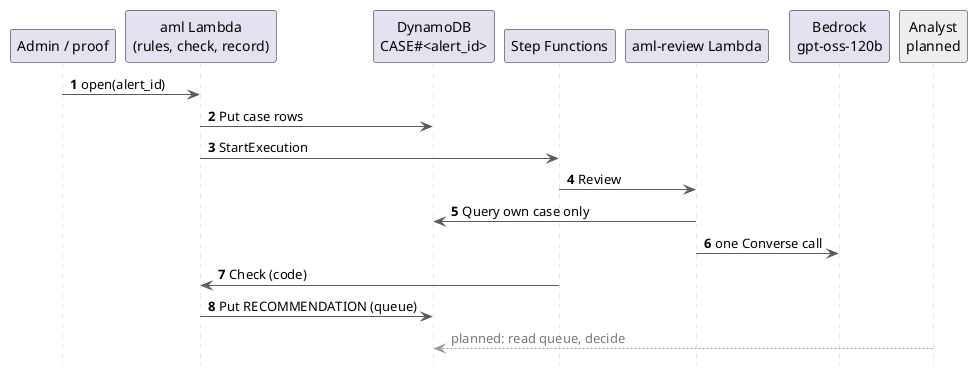
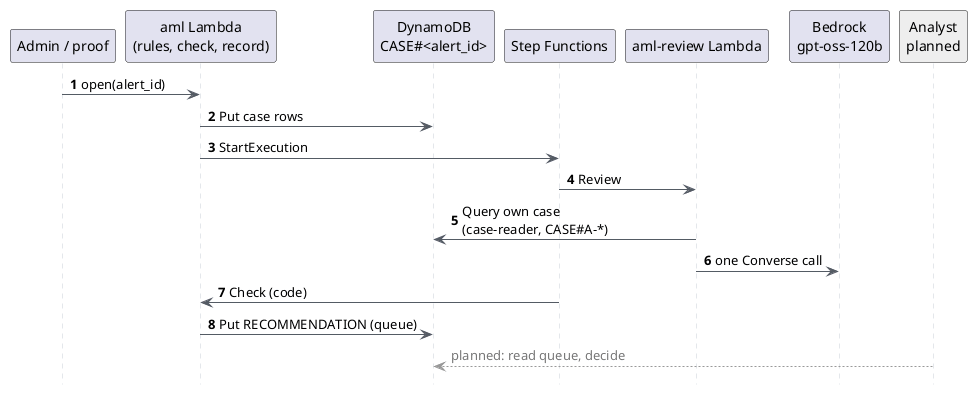
AML: give the reviewer its own case-reader role limited to CASE#A-* keys

diff --git a/proofs/aml_triage.py b/proofs/aml_triage.py
@@ -6,13 +6,18 @@
    labels never go to AWS). For each: invoke agentic-bank-aml {action: open} (rules + snapshot ->
    partition CASE#<alert_id> -> start agentic-bank-aml-triage), wait for the execution, read the
    RECOMMENDATION row. Suspicious must be escalate; both must wait for a person (never closed).
-2. Deliberate failure: the reviewer's own credential builder (`handler.case_reader`, the data-reader
+2. Deliberate failure: the reviewer's own credential builder (`handler.case_reader`, the case-reader
    role with a session policy for ONE case) reads its case, then tries the other case, a Scan and a
    write. AWS must answer AccessDenied to all three.
-3. Cleanup: every row of both CASE# partitions is deleted (admin credentials), pass or fail.
+3. The same role assumed with no session policy still reads that CASE#A-<alert_id> partition (the
+   role allows CASE#A-*, the prefix open_case writes), and a customer partition is AccessDenied.
+   The customer key is the Cognito sub (Stack.subject; the seed writes that same value), which is
+   not a CASE# partition. That deny is the role policy, not the session policy.
+4. Cleanup: every row of both CASE# partitions is deleted (admin credentials), pass or fail.
 
-Needs admin credentials allowed to invoke Lambda, read Step Functions, assume the data-reader role
-(its trust allows the account) and delete items. Two gpt-oss calls: under one cent.
+Needs admin credentials allowed to invoke Lambda, read Step Functions, assume the case-reader role
+(its trust allows the account), read the customer pool (the customer partition key) and delete
+items. Two gpt-oss calls: under one cent.
 """
 
 import json
@@ -23,7 +28,7 @@ from pathlib import Path
 from typing import Any
 
 import boto3
-from _common import REGION, check, run
+from _common import REGION, Stack, check, run
 from botocore.exceptions import ClientError
 
 ROOT = Path(__file__).resolve().parents[1]
@@ -33,7 +38,7 @@ from evals.aml import harness  # noqa: E402  labels stay on this machine
 
 TABLE = "agentic-bank-data"
 FUNCTION = "agentic-bank-aml"
-ROLE = "agentic-bank-app-data-reader"
+ROLE = "agentic-bank-app-case-reader"
 # Both were judged right by the baseline in the slice 2 eval run (evals/aml/results/baseline.md).
 
 
@@ -126,22 +131,23 @@ def main() -> None:
         table_arn = ddb.describe_table(TableName=TABLE)["Table"]["TableArn"]
         account = table_arn.split(":")[4]
         os.environ["TABLE_ARN"] = table_arn
-        os.environ["DATA_READER_ROLE_ARN"] = f"arn:aws:iam::{account}:role/{ROLE}"
+        os.environ["CASE_READER_ROLE_ARN"] = f"arn:aws:iam::{account}:role/{ROLE}"
         os.environ.setdefault("AWS_DEFAULT_REGION", REGION)
         reader = handler.case_reader(sus.alert.alert_id)
 
-        def query(alert_id: str) -> Any:
-            return lambda: reader.query(
+        def query(client: Any, key: str) -> Any:
+            return lambda: client.query(
                 TableName=TABLE,
                 KeyConditionExpression="customer = :c",
-                ExpressionAttributeValues={":c": {"S": f"CASE#{alert_id}"}},
+                ExpressionAttributeValues={":c": {"S": key}},
             )
 
-        own = query(sus.alert.alert_id)()["Items"]
+        own_key = f"CASE#{sus.alert.alert_id}"
+        own = query(reader, own_key)()["Items"]
         check(f"reviewer for {sus.alert.alert_id}: reads its own case", bool(own))
         check(
             f"reviewer for {sus.alert.alert_id}: CASE#{ben.alert.alert_id} is AccessDenied",
-            denied(query(ben.alert.alert_id)),
+            denied(query(reader, f"CASE#{ben.alert.alert_id}")),
         )
         check("reviewer: Scan is AccessDenied", denied(lambda: reader.scan(TableName=TABLE)))
         check(
@@ -154,6 +160,34 @@ def main() -> None:
                         "sk": {"S": "RECOMMENDATION"},
                         "recommendation": {"S": "close"},
                     },
+                )
+            ),
+        )
+
+        # No session policy: the role itself allows CASE#A-* and refuses every other partition.
+        # Customer rows are keyed by the Cognito sub (seeded in infra/app/data.tf), not CASE#.
+        bare_creds = boto3.client("sts").assume_role(
+            RoleArn=f"arn:aws:iam::{account}:role/{ROLE}",
+            RoleSessionName="aml-case-reader-no-policy",
+        )["Credentials"]
+        bare = boto3.client(
+            "dynamodb",
+            region_name=REGION,
+            aws_access_key_id=bare_creds["AccessKeyId"],
+            aws_secret_access_key=bare_creds["SecretAccessKey"],
+            aws_session_token=bare_creds["SessionToken"],
+        )
+        check(
+            "case-reader with no session policy: its own CASE# partition is readable",
+            bool(query(bare, own_key)()["Items"]),
+        )
+        customer = Stack().subject("alex")  # Cognito sub: the real customer partition key
+        check(
+            "case-reader with no session policy: a customer partition is AccessDenied",
+            denied(
+                lambda: bare.get_item(
+                    TableName=TABLE,
+                    Key={"customer": {"S": customer}, "sk": {"S": "ACCT#acc_alex_chk"}},
                 )
             ),
         )

diff --git a/tests/test_aml_deploy.py b/tests/test_aml_deploy.py
@@ -4,15 +4,22 @@ What only AWS can prove (IAM denies another case, the workflow runs) is in proof
 """
 
 import json
+import re
 from functools import cache
+from pathlib import Path
 from typing import Any
 
 import pytest
 
 from agentic_bank.aml import handler, snapshot, triage
 from agentic_bank.aml.case_tools import DynamoCaseSource
+from agentic_bank.shared.data import READ
 from evals.aml import harness
 from test_iam_boundaries import tf_list
+
+ROOT = Path(__file__).resolve().parents[1]
+APP = ROOT / "infra/app"
+BOOT = ROOT / "infra/bootstrap/main.tf"
 
 
 @cache
@@ -117,6 +124,109 @@ def test_check_step_uses_its_own_read_of_the_case(env):
 
     failed = handler.check_review(alert_id, {"answer": None, "failure": "baseline error: X"}, ddb)
     assert failed == {"recommendation": "escalate", "failure": "baseline error: X", "advice": None}
+
+
+def _hcl_block(text: str, marker: str) -> str:
+    """From a Terraform block header to the next top-level block."""
+    start = text.index(marker)
+    rest = text[start + len(marker) :]
+    nxt = re.search(r"\n(?:resource|data|locals|variable|output) ", rest)
+    return text[start:] if nxt is None else text[start : start + len(marker) + nxt.start()]
+
+
+def test_case_reader_identity_policy_reads_only_case_partitions():
+    """GetItem and Query on the data table, LeadingKeys like CASE#A-*, no Scan and no writes."""
+    aml = (APP / "aml.tf").read_text()
+    role = _hcl_block(aml, 'resource "aws_iam_role" "case_reader"')
+    policy = _hcl_block(aml, 'resource "aws_iam_role_policy" "case_reader"')
+    trust = _hcl_block(aml, 'data "aws_iam_policy_document" "case_reader_trust"')
+    assert re.search(r'name\s+=\s+"agentic-bank-app-case-reader"', role)
+    assert "permissions_boundary = local.boundary_arn" in role
+    assert 'aws_iam_role.lambda["aml-review"].arn' in trust
+    assert "dynamodb:GetItem" in policy and "dynamodb:Query" in policy
+    assert '["CASE#A-*"]' in policy
+    assert "dynamodb:LeadingKeys" in policy
+    assert '"dynamodb:LeadingKeys" = "false"' in policy  # a request with no key does not match
+    for forbidden in ("Scan", "PutItem", "UpdateItem", "DeleteItem", "Batch"):
+        assert forbidden not in policy
+
+
+def test_reviewer_assumes_case_reader_and_data_reader_does_not_trust_it():
+    aml = (APP / "aml.tf").read_text()
+    grants = _hcl_block(aml, "aml_review_grants = [")
+    assert "case_reader_role_arn" in grants
+    assert "data_reader_role_arn" not in grants
+    review = _hcl_block((APP / "gateway.tf").read_text(), "aml-review = {")
+    assert "CASE_READER_ROLE_ARN" in review
+    assert "DATA_READER_ROLE_ARN" not in review
+    assert "case_reader_role_arn" in review
+    data_tf = (APP / "data.tf").read_text()
+    trust = _hcl_block(data_tf, 'data "aws_iam_policy_document" "data_reader_trust"')
+    assert "aml-review" not in trust
+
+
+def test_workload_boundary_allows_assuming_the_case_reader():
+    text = BOOT.read_text()
+    start = re.search(r'sid\s+=\s+"AssumeDataReader"', text)
+    end = re.search(r'sid\s+=\s+"WriteBankData"', text)
+    assert start is not None and end is not None
+    block = text[start.start() : end.start()]
+    names = re.search(r"\[for r in \[(.*?)\]", block, re.S)
+    assert names is not None
+    listed = set(re.findall(r'"([a-z-]+)"', names.group(1)))
+    assert listed == {
+        "data-reader",
+        "proposer",
+        "approver",
+        "case-writer",
+        "data-writer",
+        "case-reader",
+    }
+
+
+def test_case_reader_session_still_pins_one_case(env, monkeypatch):
+    """The role ceiling is CASE#A-*. The session policy still names this one alert."""
+    monkeypatch.setenv(
+        "CASE_READER_ROLE_ARN", "arn:aws:iam::ACCOUNT:role/agentic-bank-app-case-reader"
+    )
+    seen: dict[str, Any] = {}
+
+    def fake_scoped(role_env, customer, table_arns, actions, attributes=None, session_name=None):
+        seen.update(
+            role_env=role_env,
+            customer=customer,
+            table_arns=table_arns,
+            actions=actions,
+            session_name=session_name,
+        )
+
+        class _Session:
+            def client(self, name: str) -> str:
+                return name
+
+        return _Session()
+
+    monkeypatch.setattr(handler, "scoped_session", fake_scoped)
+    assert handler.case_reader("A-0001") == "dynamodb"
+    assert seen == {
+        "role_env": "CASE_READER_ROLE_ARN",
+        "customer": "CASE#A-0001",
+        "table_arns": "arn:aws:dynamodb:us-east-1:ACCOUNT:table/agentic-bank-data",
+        "actions": READ,
+        "session_name": "aml-review-A-0001",
+    }
+
+
+def test_proof_denies_a_customer_row_when_the_session_policy_is_omitted():
+    """The denied key is a Cognito sub (the seeded partition), not a CASE# key."""
+    proof = (ROOT / "proofs/aml_triage.py").read_text()
+    assert 'ROLE = "agentic-bank-app-case-reader"' in proof
+    assert "CASE_READER_ROLE_ARN" in proof
+    assert "DATA_READER_ROLE_ARN" not in proof
+    assert "no session policy" in proof
+    assert 'Stack().subject("alex")' in proof
+    assert '"ACCT#acc_alex_chk"' in proof
+    assert "CUST#" not in proof
 
 
 def test_record_queues_for_a_person_and_never_closes(env):

diff --git a/src/agentic_bank/aml/handler.py b/src/agentic_bank/aml/handler.py
@@ -7,8 +7,9 @@ Two Lambdas, two roles:
     check   read the case again with its own credentials -> `triage.check` on the model's answer
     record  write the checked recommendation to the analyst queue (analyst_queue = "aml")
   agentic-bank-aml-review  `review_handler`: the one-call baseline. Reads ONLY its own case,
-    through the data-reader role with a session policy pinning dynamodb:LeadingKeys to
-    CASE#<alert_id>. No write rights anywhere; its only other right is the one model.
+    through the case-reader role. That role allows GetItem and Query only on CASE#A-* partitions;
+    the session policy still pins dynamodb:LeadingKeys to CASE#<alert_id>. No write rights
+    anywhere; its only other right is the one model.
 
 v1 is human-only: nothing here closes an alert, files a report or contacts the customer. A
 `close` is advice an analyst reads; the queue row is the end of the workflow.
@@ -119,7 +120,7 @@ def case_reader(alert_id: str) -> Any:
     """A DynamoDB client that can read CASE#<alert_id> and nothing else (AWS enforces it)."""
     key = snapshot.case_key(alert_id)
     session = scoped_session(
-        "DATA_READER_ROLE_ARN",
+        "CASE_READER_ROLE_ARN",
         key,
         os.environ["TABLE_ARN"],
         READ,

diff --git a/docs/aml.md b/docs/aml.md
@@ -1,11 +1,13 @@
 # AML alert triage
 
 > **Status: slices 1, 2, 2b, two rounds of the two-stage test, and slice 3 done. Slice 3 is
-> applied and AWS-verified (2026-11-13, `proofs/aml_triage.py`: all checks pass).** Data (a base and a "deep" variant), rules, the case
-> snapshot, three reviewers (one model call; a Strands agent team on the snapshot; the same team
-> exploring the whole transaction graph) and an eval harness exist. Slices 1-2 were measured locally
-> against Bedrock (model calls only, 2026-11-12). Slice 3 deploys the one-call baseline behind Step
-> Functions. Everything is synthetic and fictional.
+> applied and AWS-verified (2026-11-13, `proofs/aml_triage.py`: all checks pass) on the shared
+> data-reader role. The case-reader role is pending a human bootstrap apply, then the app apply.**
+> Data (a base and a "deep" variant), rules, the case snapshot, three reviewers (one model call; a
+> Strands agent team on the snapshot; the same team exploring the whole transaction graph) and an
+> eval harness exist. Slices 1-2 were measured locally against Bedrock (model calls only,
+> 2026-11-12). Slice 3 deploys the one-call baseline behind Step Functions. Everything is synthetic
+> and fictional.
 
 ## Slice 1: data, rules, snapshot
 
@@ -531,9 +533,11 @@ of shallow false escalations. Spend: about $2.6 including a discarded partial ru
 
 ## Slice 3: the v1 reviewer on AWS
 
-> **Applied and AWS-verified 2026-11-13.** `proofs/aml_triage.py` passed: a suspicious alert
+> **Applied and AWS-verified 2026-11-13** on the shared data-reader role: a suspicious alert
 > escalated, a benign one queued for a person (not closed), and the reviewer got AccessDenied on
-> another case, a Scan and a write. The deploy from main then planned "No changes".
+> another case, a Scan and a write. The case-reader role in this section is in the tree and **not
+> applied yet** (bootstrap, then the app). `proofs/aml_triage.py` has the new check and has not
+> been re-run.
 
 ![One AML alert on AWS](diagrams/06-aml-triage.png)
 
@@ -564,7 +568,7 @@ fails if it drifts from the pydantic model.
 
 | Risk | Control | Enforced by |
 | --- | --- | --- |
-| The reviewer reads another customer's case (bug or injected text) | Its own role has no table rights. It assumes the data-reader role with a session policy pinning `dynamodb:LeadingKeys` to `CASE#<alert_id>` | AWS IAM (proof: another case, a Scan and a write are AccessDenied) |
+| The reviewer reads another case, or a customer row if the session policy is dropped | Its own role has no table rights. It assumes `agentic-bank-app-case-reader`, whose policy allows only `dynamodb:GetItem` and `dynamodb:Query` when `dynamodb:LeadingKeys` matches `CASE#A-*` (the prefix `open_case` writes). The session policy still pins one `CASE#<alert_id>`. A customer partition is the Cognito `sub`, so it does not match | AWS IAM (proof: another case, a Scan and a write are AccessDenied; with no session policy a customer partition is AccessDenied). Pending the bootstrap apply below |
 | The alert id widens that policy (`A-*`) | `case_key` accepts only `A-` plus 4 digits before it is used in a key or a policy | Our code |
 | The reviewer changes data | No write action in any policy it can reach | AWS IAM |
 | The AML worker touches money or customer rows | PutItem and Query only where every partition key matches `CASE#A-*`, PutItem only with the listed attributes | AWS IAM (`aml.tf`) |
@@ -581,11 +585,19 @@ fails if it drifts from the pydantic model.
 - **No analyst screen for the AML queue.** Rows wait with `analyst_queue = "aml"` (the dispute
   analyst reads `"open"`, so the queues stay apart). A bank: a case-management tool, four-eyes on
   closes, a full audit trail.
-- **The reviewer reuses the data-reader role.** The workload boundary (infra/bootstrap) lets app
-  roles assume only five named roles, so a dedicated AML case-reader role needs a bootstrap change
-  by a human admin. Today, a bug that dropped the session policy would let the reviewer read
-  customer rows. A bank would add a case-reader role whose own policy is limited to `CASE#*`, so the
-  session policy narrows a role that is already narrow.
+- **Case-reader is written, not applied.** The reviewer now assumes `agentic-bank-app-case-reader`
+  instead of the shared data-reader. The role's own policy allows only `GetItem` and `Query` on the
+  data table, and only when every `dynamodb:LeadingKeys` value matches `CASE#A-*` (the prefix
+  `open_case` writes; no Scan, no writes). The per-case session policy stays, so one review still
+  sees one alert. Dropping that session policy can read other AML case partitions (`CASE#A-*`), not
+  customer rows. A customer partition is the Cognito `sub` (the seed in `infra/app/data.tf` writes
+  `aws_cognito_user.customer.sub`). **Apply bootstrap first, then the app.** The workload boundary
+  (`infra/bootstrap`) must name `case-reader` before any app role can assume it. If the app lands
+  first, the review Lambda points at a role the boundary does not yet allow, and reviews fail closed
+  until bootstrap is applied. Do not run `proofs/aml_triage.py` until both applies have landed.
+- **Account-root trust is a known shortcut**, the same one as data-reader. The case-reader role
+  trusts the account root so an admin can assume it for the proof. A bank would trust a named
+  proof or break-glass role, not the account root.
 - **Writes one row at a time.** The boundary allows PutItem, not BatchWriteItem: about 300 calls,
   2-4 s.
 - **Logs.** Each review logs one line (tokens, stop reason, failure); the state machine has no
